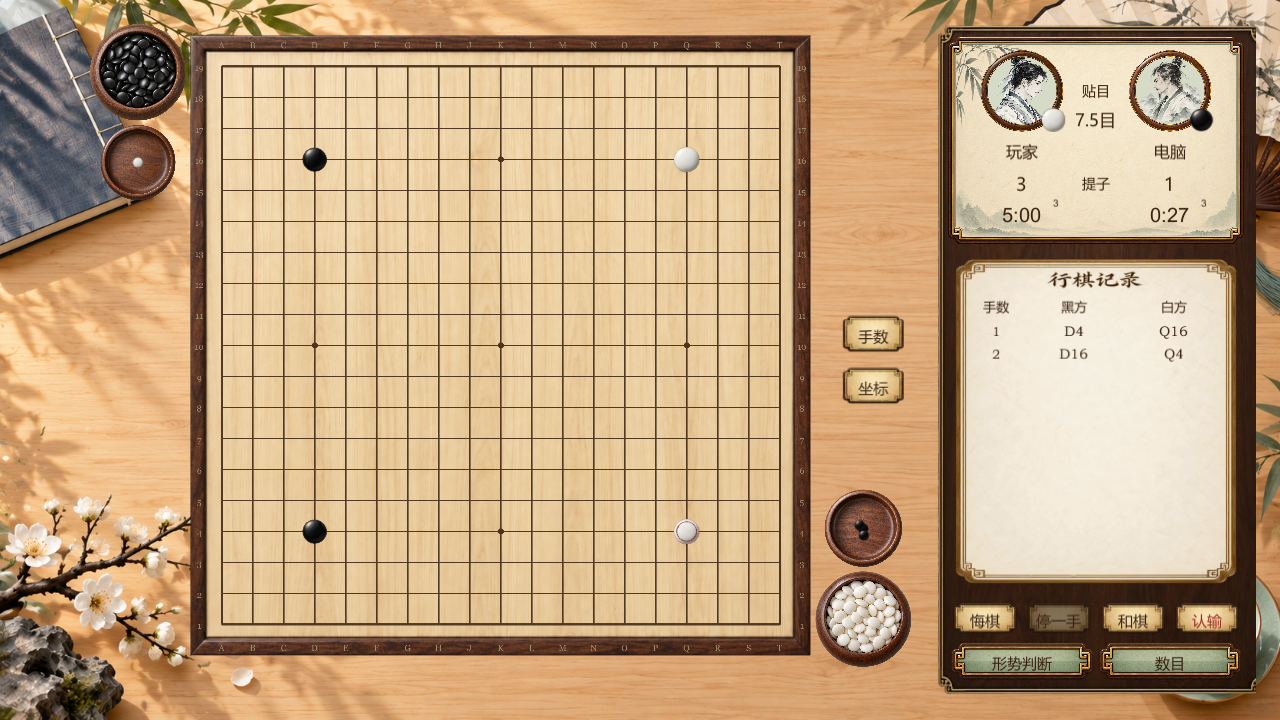
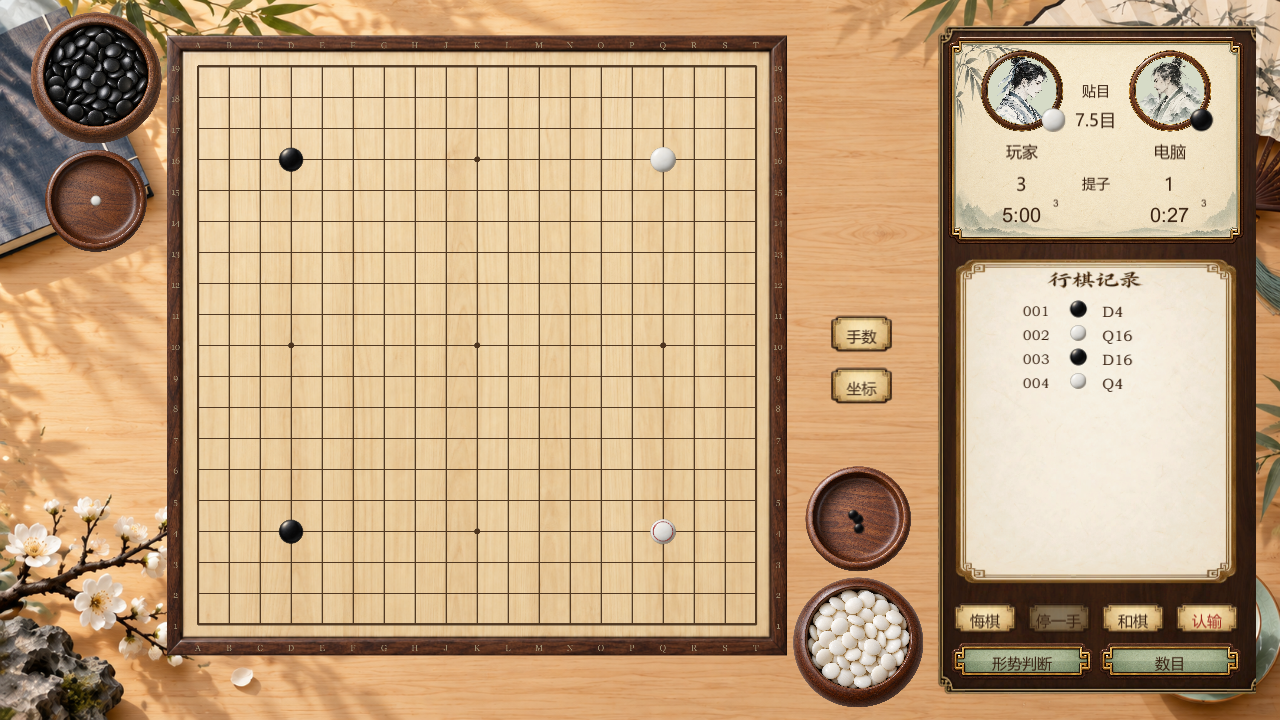
人机对弈页面美术UI优化

diff --git a/Assets/Scripts/GoGame.AiArt.cs b/Assets/Scripts/GoGame.AiArt.cs
@@ -108,13 +108,8 @@ public partial class GoGame
         StudyArtImage(aiArtRecord, "record-parchment-v1");
         StudyArtLabelImage(aiArtRecord, "RecordTitle", "record-title-v1",
             new Vector2(.25f, 1), new Vector2(.75f, 1), new Vector2(0, -58), new Vector2(0, -20));
-        var header = StudyArtRect(aiArtRecord, "Columns", new Vector2(0, 1), Vector2.one,
-            new Vector2(30, -93), new Vector2(-30, -60));
-        AiArtText(header, "Ply", "手数", 20, 0, 0, .22f, 1);
-        AiArtText(header, "Black", "黑方", 20, .22f, 0, .61f, 1);
-        AiArtText(header, "White", "白方", 20, .61f, 0, 1, 1);
         var viewport = StudyArtRect(aiArtRecord, "Viewport", Vector2.zero, Vector2.one,
-            new Vector2(30, 25), new Vector2(-30, -96));
+            new Vector2(30, 25), new Vector2(-30, -65));
         viewport.gameObject.AddComponent<RectMask2D>();
         viewport.gameObject.AddComponent<Image>().color = Color.clear;
         aiArtScroll = viewport.gameObject.AddComponent<ScrollRect>();
@@ -254,8 +249,15 @@ public partial class GoGame
         PlaceAiArtSection(aiArtActions, 18, 25, panelW - 36, 120);
         float regionW = w - panelW - 3 * margin - gap;
         float lane = Mathf.Clamp(regionW * .12f, 105, 154);
+        float bowlSize = lane * 1.36f;
+        float lidSize = bowlSize * .86f;
+        float lidDistance = bowlSize * .88f;
+        // Board scale stays independent of decorative bowl/lid sizes.
         float boardPixels = Mathf.Min(h - 150, regionW - 2 * (lane + gap));
-        float boardX = margin + regionW / 2 + 60, boardY = h * .52f;
+        float panelLeft = w - margin - panelW;
+        float boardX = Mathf.Clamp(margin + regionW / 2 + 72,
+            bowlSize + 14 + boardPixels / 2, panelLeft - bowlSize - 14 - boardPixels / 2);
+        float boardY = h * .52f;
         float worldH = (boardSize + 1) * h / Mathf.Max(1, boardPixels);
         float worldW = worldH * cam.aspect, c = (boardSize - 1) / 2f;
         cam.orthographicSize = worldH / 2;
@@ -267,20 +269,19 @@ public partial class GoGame
             aiArtBackground.transform.position = new Vector3(cam.transform.position.x, cam.transform.position.y, 2);
             aiArtBackground.transform.localScale = Vector3.one * Mathf.Max(worldW / sprite.bounds.size.x, worldH / sprite.bounds.size.y);
         }
-        float left = boardX - boardPixels / 2 - 2 - lane / 2;
-        float right = boardX + boardPixels / 2 + 2 + lane / 2;
+        float left = boardX - boardPixels / 2 - 2 - bowlSize / 2;
+        float right = boardX + boardPixels / 2 + 2 + bowlSize / 2;
         // Each seated player keeps the bowl on their right: opponent top-left, human bottom-right.
         // Bring the lid rims almost into contact with the bowl rims, leaving room for captured stones.
-        float upperCornerY = boardY + boardPixels / 2 - lane / 2 + 22;
-        float lowerCornerY = boardY - boardPixels / 2 + lane / 2 - 22;
-        PlaceAiArtObject(aiArtLeftBowl, left, upperCornerY, lane);
-        PlaceAiArtObject(aiArtLeftLid, left, upperCornerY - lane * .88f, lane * .86f);
-        PlaceAiArtObject(aiArtRightBowl, right, lowerCornerY, lane);
-        PlaceAiArtObject(aiArtRightLid, right, lowerCornerY + lane * .88f, lane * .86f);
+        float upperCornerY = Mathf.Min(boardY + boardPixels / 2 + bowlSize * .14f, h - bowlSize / 2 - 12);
+        float lowerCornerY = Mathf.Max(boardY - boardPixels / 2 - bowlSize * .14f, bowlSize / 2 + 12);
+        PlaceAiArtObject(aiArtLeftBowl, left, upperCornerY, bowlSize);
+        PlaceAiArtObject(aiArtLeftLid, left, upperCornerY - lidDistance, lidSize);
+        PlaceAiArtObject(aiArtRightBowl, right, lowerCornerY, bowlSize);
+        PlaceAiArtObject(aiArtRightLid, right, lowerCornerY + lidDistance, lidSize);
         float boardRight = boardX + boardPixels / 2;
-        float panelLeft = w - margin - panelW;
         float toolsWidth = Mathf.Min(108, panelLeft - boardRight - 28);
-        float toolsBottom = Mathf.Max(h * .5f - 72, lowerCornerY + lane * 1.31f + 10);
+        float toolsBottom = Mathf.Max(h * .5f - 72, lowerCornerY + lidDistance + lidSize / 2 + 10);
         PlaceAiArtSection(aiArtTools, (boardRight + panelLeft) / 2 - toolsWidth / 2,
             toolsBottom, toolsWidth, 144);
         studyArtDialogCard.anchorMin = studyArtDialogCard.anchorMax = new Vector2(1, .5f);
@@ -372,24 +373,20 @@ public partial class GoGame
         if (signature == aiArtRecordSignature) return;
         aiArtRecordSignature = signature;
         for (int i = aiArtContent.childCount - 1; i >= 0; i--) Destroy(aiArtContent.GetChild(i).gameObject);
-        // Preserve recorded colors, including handicap openings and passes.
-        var rows = new List<string[]>();
+        // One entry per actual move; the icon follows the logged color, including handicap openings.
+        aiArtContent.sizeDelta = new Vector2(0, Mathf.Max(40, count * 36 + 8));
         for (int i = 0; i < count; i++)
         {
             rules.GetLoggedMove(i, out int x, out int y, out int color, out bool pass);
-            int column = color == GoRules.BLACK ? 1 : 2;
-            if (rows.Count == 0 || column == 1 || rows[rows.Count - 1][column] != "")
-                rows.Add(new[] { (rows.Count + 1).ToString(), "", "" });
-            rows[rows.Count - 1][column] = pass ? "停一手" : ColLabel(x) + RowLabel(y);
-        }
-        aiArtContent.sizeDelta = new Vector2(0, Mathf.Max(40, rows.Count * 34 + 8));
-        for (int i = 0; i < rows.Count; i++)
-        {
-            var row = StudyArtRect(aiArtContent, "Pair_" + i, new Vector2(0, 1), Vector2.one,
-                new Vector2(0, -(i + 1) * 34), new Vector2(0, -i * 34));
-            AiArtText(row, "Number", rows[i][0], 20, 0, 0, .22f, 1);
-            AiArtText(row, "Black", rows[i][1], 21, .22f, 0, .61f, 1);
-            AiArtText(row, "White", rows[i][2], 21, .61f, 0, 1, 1);
+            var row = StudyArtRect(aiArtContent, "Move_" + (i + 1), new Vector2(0, 1), Vector2.one,
+                new Vector2(0, -(i + 1) * 36), new Vector2(0, -i * 36));
+            var entry = StudyArtRect(row, "Entry", new Vector2(.5f, .5f), new Vector2(.5f, .5f),
+                new Vector2(-120, -18), new Vector2(120, 18));
+            AiArtText(entry, "Number", (i + 1).ToString("000"), 21, 0, 0, .26f, 1);
+            StudyArtStone(entry, color == GoRules.BLACK, new Vector2(.39f, .5f), 26);
+            var coordinate = AiArtText(entry, "Coordinate", pass ? "停一手" : ColLabel(x) + RowLabel(y),
+                23, .54f, 0, 1, 1);
+            coordinate.alignment = TextAnchor.MiddleLeft;
         }
         Canvas.ForceUpdateCanvases(); aiArtScroll.verticalNormalizedPosition = 0;
     }

diff --git a/Assets/Scripts/GoGame.AiArtPreview.cs b/Assets/Scripts/GoGame.AiArtPreview.cs
@@ -30,8 +30,14 @@ public partial class GoGame
         yield return new WaitForSecondsRealtime(.8f);
         VerifyAiArtLayout();
         CaptureStudyFrame(Path.Combine(folder, "ai-match-black-19.png"));
-        if (aiArtContent.childCount != 3 || aiArtPlayerPeriods.text != "3")
+        if (aiArtContent.childCount != 6 || aiArtPlayerPeriods.text != "3")
             throw new Exception("AI record rows or byoyomi indicator missing");
+        if (aiArtRecord.Find("Columns") != null
+            || aiArtContent.GetChild(0).Find("Entry/BlackStone") == null
+            || aiArtContent.GetChild(1).Find("Entry/WhiteStone") == null
+            || aiArtContent.GetChild(0).Find("Entry/Number").GetComponent<UnityEngine.UI.Text>().text != "001"
+            || aiArtContent.GetChild(0).Find("Entry/Coordinate").GetComponent<UnityEngine.UI.Text>().text != "D4")
+            throw new Exception("AI move record is not number / stone / coordinate without header");
         if (aiArtPlayerStone.sprite != stoneBlack || aiArtComputerStone.sprite != stoneWhite)
             throw new Exception("AI stone badges do not match sides");
         OpenStudyJudgment(); UpdateClockPauseState();
@@ -91,7 +97,7 @@ public partial class GoGame
         if (aiArtRoot.activeSelf || !sceneBackgroundLayer.activeSelf)
             throw new Exception("AI menu restoration failed");
         File.WriteAllText(Path.Combine(folder, "validation.txt"),
-            "PASS: AI art runtime resources; board/bowl/lid/sidebar bounds at desktop aspect ratios; 9/13/19 boards; human black/white badges and capture mapping; paired record; timer/byoyomi; modal clock pause; undo; coordinate/move toggles; judgment/draw/resign/score dialogs; study/menu restoration.");
+            "PASS: AI art runtime resources; board/bowl/lid/sidebar bounds at desktop aspect ratios; 9/13/19 boards; human black/white badges and capture mapping; headerless move-number/stone/coordinate record; timer/byoyomi; modal clock pause; undo; coordinate/move toggles; judgment/draw/resign/score dialogs; study/menu restoration.");
         Application.Quit(0);
     }
 
@@ -120,6 +126,17 @@ public partial class GoGame
         float diameters = (aiArtRightBowl.rect.width + aiArtRightLid.rect.width) / 2;
         if (pairDistance > diameters + 2 || aiArtLeftBowl.anchoredPosition.y <= aiArtRightBowl.anchoredPosition.y)
             throw new Exception("AI bowls are not arranged as close opposing right-hand pairs");
+        float bowlRadius = aiArtLeftBowl.rect.width * studyArtCanvas.GetComponentInParent<UnityEngine.Canvas>().scaleFactor / 2;
+        if (aiArtLeftBowl.position.x >= min.x || aiArtLeftBowl.position.y < max.y - bowlRadius
+            || aiArtRightBowl.position.x <= max.x || aiArtRightBowl.position.y > min.y + bowlRadius)
+            throw new Exception("AI bowls are not close to the diagonal board corners");
+        float canvasW = studyArtCanvas.rect.width, canvasH = studyArtCanvas.rect.height;
+        float sideWidth = Mathf.Clamp(canvasW * .25f, 400, 480);
+        float regionWidth = canvasW - sideWidth - 130;
+        float originalBoardSize = Mathf.Min(canvasH - 150,
+            regionWidth - 2 * (Mathf.Clamp(regionWidth * .12f, 105, 154) + 22));
+        if (Mathf.Abs((max.x - min.x) / Screen.width * canvasW - originalBoardSize) > 1)
+            throw new Exception("AI board was resized by decorative assets");
     }
 }
 #endif

diff --git a/docs/ai-ui-layout.md b/docs/ai-ui-layout.md
@@ -3,10 +3,10 @@
 沿用打谱界面的运行时结构：世界空间棋盘与桌面背景，屏幕空间侧栏及棋盒棋盖，独立模态层。入口为正常人机对弈开局，无需额外场景。
 
 - 棋盘使用现有木纹、程序网格和黑白棋子。棋盘向右靠拢，手数与坐标开关纵向放在棋盘和侧栏之间。
-- 对局视角：电脑棋盒紧贴棋盘左上角，玩家棋盒紧贴棋盘右下角；两组再向角外收拢，盒盖贴近各自棋盒，提子示意在盒盖内。棋盒颜色随玩家执棋切换。
+- 对局视角：棋盒、棋盖较最初同比例放大约 36%；电脑棋盒靠棋盘左上角，玩家棋盒靠右下角。棋盘保持原始大尺寸，不因棋盒放大而缩小；棋盒位置按窗口边缘适配，盒盖贴近各自棋盒，提子示意在盒盖内。棋盒颜色随玩家执棋切换。
 - 侧栏复用胡桃木底板、宣纸记录卡和普通/认输按钮。新信息卡、青瓷按钮、独立圆框与两位水墨侧颜来自本次美术资源。
 - 玩家/电脑固定左右两列；头像右下执棋标记、名称、提子数和计时分别对齐。贴目集中居中，剩余读秒次数置于用时右上方。
-- 记录按实际黑白顺序成对排列，支持让子后白棋先行、停一手及滚动。
+- 记录不显示表头，每手一行，格式为三位手数编号、黑/白棋子图案、落子坐标；支持让子后白棋先行、停一手及滚动。
 - 第一行悔棋、停一手、和棋、认输；第二行形势判断、数目。不显示行棋状态文案和返回主界面按钮。
 - 认输与同排按钮共用宣纸底图和边框，用暗朱红文字区分。
 - 复用现有棋局、AI、计时、数目、认输及棋谱保存逻辑。人机认输明确由玩家执棋方认输。
